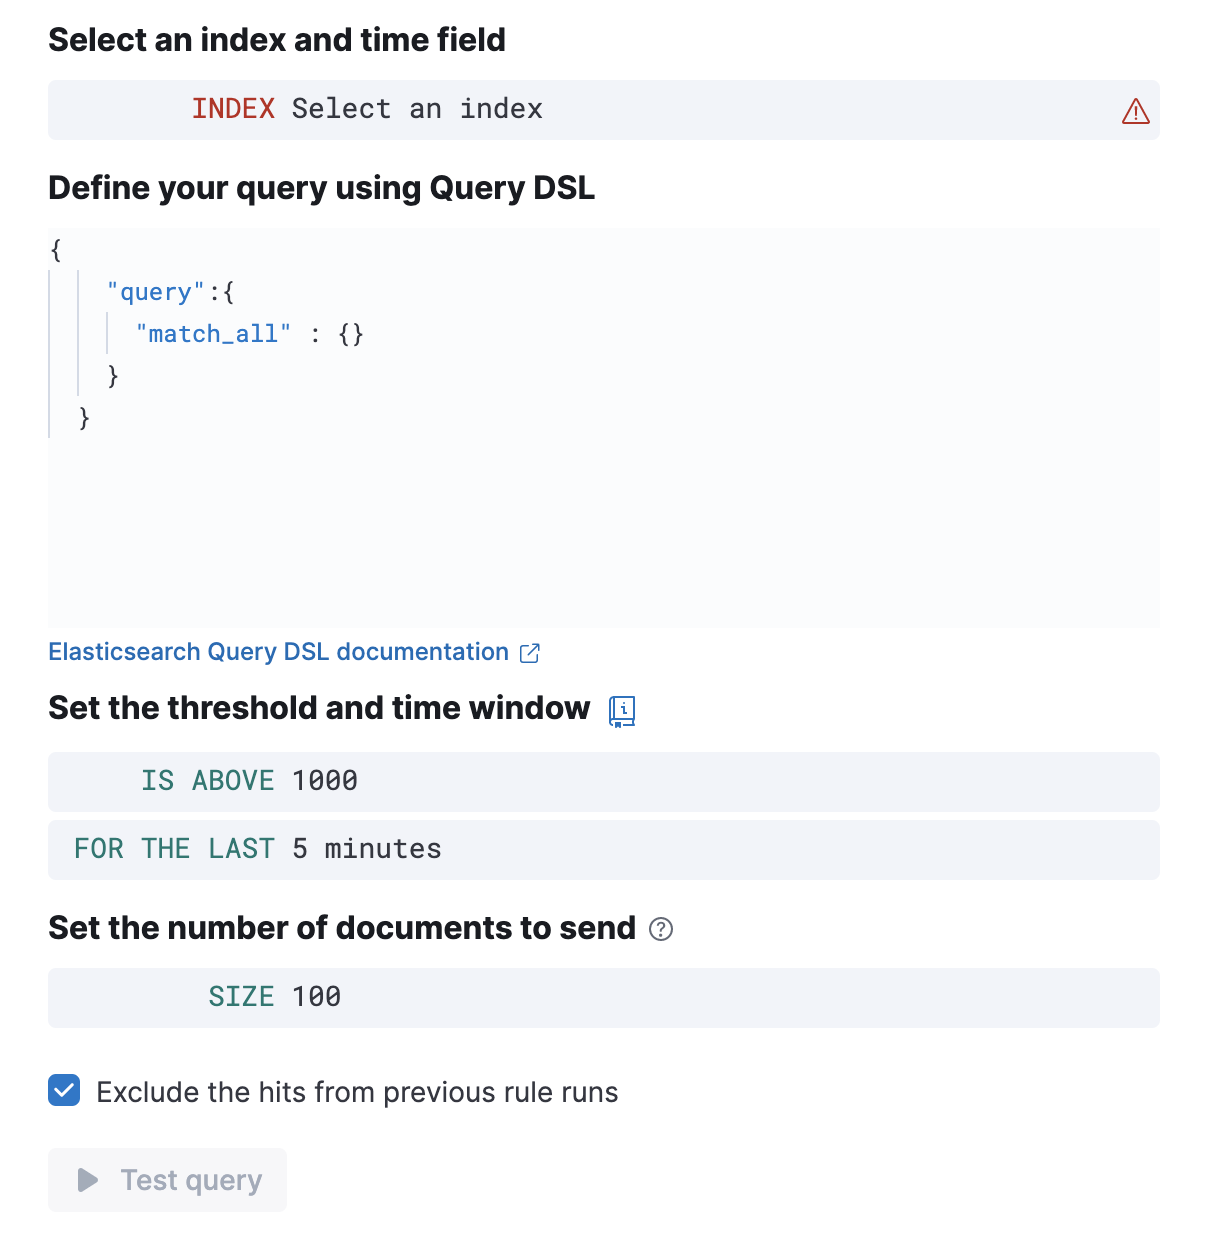
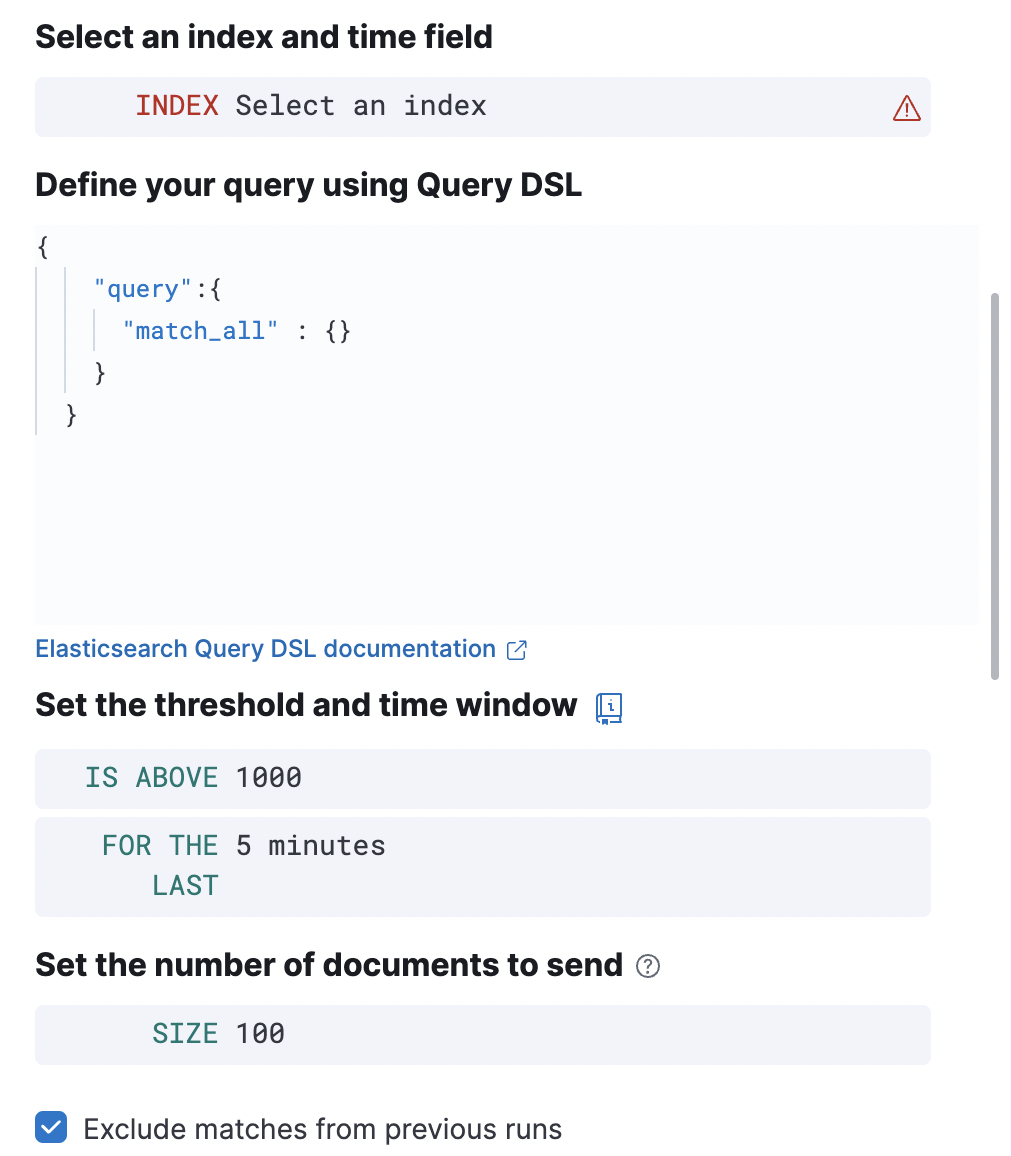
Edit UI text for "exclude previous hits" check box in Elasticsearch query rule (#140146)

diff --git a/x-pack/plugins/stack_alerts/public/alert_types/es_query/rule_common_expressions/threshold_help_popover.tsx b/x-pack/plugins/stack_alerts/public/alert_types/es_query/rule_common_expressions/threshold_help_popover.tsx
@@ -6,14 +6,7 @@
  */
 
 import React, { Component } from 'react';
-import {
-  EuiButtonIcon,
-  EuiPopover,
-  EuiPopoverTitle,
-  EuiText,
-  EuiCallOut,
-  EuiSpacer,
-} from '@elastic/eui';
+import { EuiButtonIcon, EuiPopover, EuiPopoverTitle, EuiText } from '@elastic/eui';
 import { FormattedMessage } from '@kbn/i18n-react';
 import { i18n } from '@kbn/i18n';
 import { css } from '@emotion/react';
@@ -66,16 +59,16 @@ export class QueryThresholdHelpPopover extends Component<{}, State> {
               }}
             />
           </p>
+          <p>
+            <FormattedMessage
+              id="xpack.stackAlerts.esQuery.ui.thresholdHelp.duplicateMatches"
+              defaultMessage="If {excludePrevious} is turned on, a document that matches the query in multiple runs will be used in only the first threshold calculation."
+              values={{
+                excludePrevious: <b>Exclude matches from previous runs</b>,
+              }}
+            />
+          </p>
         </EuiText>
-        <EuiSpacer size="m" />
-        <EuiCallOut
-          iconType="pin"
-          size="s"
-          title={i18n.translate('xpack.stackAlerts.esQuery.ui.thresholdHelp.duplicateMatches', {
-            defaultMessage:
-              "If the 'Exclude the hits from previous rule runs' option is checked and the time window is greater than the check interval, a document that matches the query in multiple runs will be used in only the first threshold calculation.",
-          })}
-        />
       </div>
     );
   }

diff --git a/x-pack/plugins/stack_alerts/public/alert_types/es_query/rule_common_expressions/rule_common_expressions.tsx b/x-pack/plugins/stack_alerts/public/alert_types/es_query/rule_common_expressions/rule_common_expressions.tsx
@@ -145,7 +145,7 @@ export const RuleCommonExpressions: React.FC<RuleCommonExpressionsProps> = ({
             onChangeExcludeHitsFromPreviousRun(event.target.checked);
           }}
           label={i18n.translate('xpack.stackAlerts.esQuery.ui.excludePreviousHitsExpression', {
-            defaultMessage: 'Exclude the hits from previous rule runs',
+            defaultMessage: 'Exclude matches from previous runs',
           })}
         />
       </EuiFormRow>
